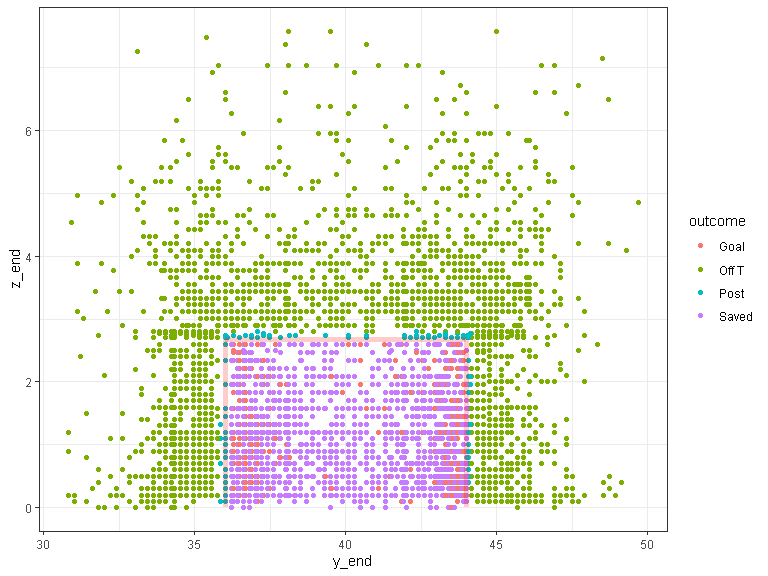
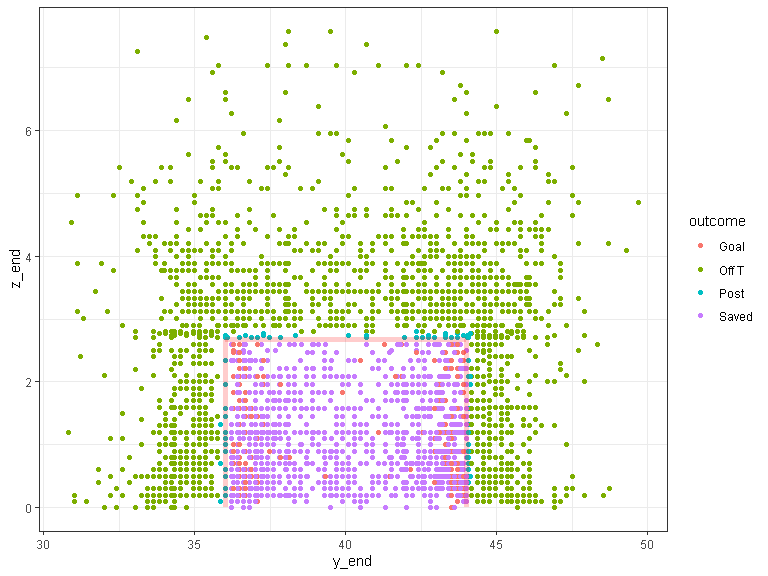
Filter by shot distance

diff --git a/reproduction/miss_it_like_messi.md b/reproduction/miss_it_like_messi.md
@@ -16,21 +16,21 @@ statsbomb_shots_processed |>
 #> # Groups:   League, Season [15]
 #>    League Season num_shots
 #>    <fct>   <int>     <int>
-#>  1 ARG      2019      5034
-#>  2 FR2      2018      6114
-#>  3 FR2      2019      4581
-#>  4 FR2      2020      5783
-#>  5 GR2      2018      5667
-#>  6 GR2      2019      5813
-#>  7 GR2      2020      5323
-#>  8 MLS      2018      7551
-#>  9 MLS      2019      8023
-#> 10 MLS      2020      5665
-#> 11 NED      2018      5934
-#> 12 NED      2019      4403
-#> 13 NED      2020      5379
-#> 14 USL      2019      3470
-#> 15 USL      2020      4768
+#>  1 ARG      2019      3675
+#>  2 FR2      2018      4405
+#>  3 FR2      2019      3386
+#>  4 FR2      2020      4243
+#>  5 GR2      2018      4065
+#>  6 GR2      2019      4189
+#>  7 GR2      2020      3787
+#>  8 MLS      2018      5383
+#>  9 MLS      2019      5811
+#> 10 MLS      2020      4071
+#> 11 NED      2018      4212
+#> 12 NED      2019      3235
+#> 13 NED      2020      3960
+#> 14 USL      2019      2503
+#> 15 USL      2020      3551
 ```
 
 ## Figure 1
@@ -312,12 +312,9 @@ season_stats |>
   data.frame() |>
   dplyr::select(dplyr::ends_with("_b")) |>
   as.matrix()
-#> Warning in
-#> cor(dplyr::select(dplyr::ungroup(dplyr::filter(dplyr::inner_join(season_stats, :
-#> the standard deviation is zero
-#>                SBPreXg_b SBPostXg_b rb_post_xg_b gen_post_xg_b
-#> SBPreXg_a      0.9170544  0.2333293           NA     0.6944394
-#> SBPostXg_a     0.9730401  0.7263681           NA     0.2121283
-#> rb_post_xg_a          NA         NA           NA            NA
-#> gen_post_xg_a -0.9186199 -0.2076382           NA    -0.5451333
+#>               SBPreXg_b SBPostXg_b rb_post_xg_b gen_post_xg_b
+#> SBPreXg_a            NA         NA           NA            NA
+#> SBPostXg_a           NA         NA           NA            NA
+#> rb_post_xg_a         NA         NA           NA            NA
+#> gen_post_xg_a        NA         NA           NA            NA
 ```
